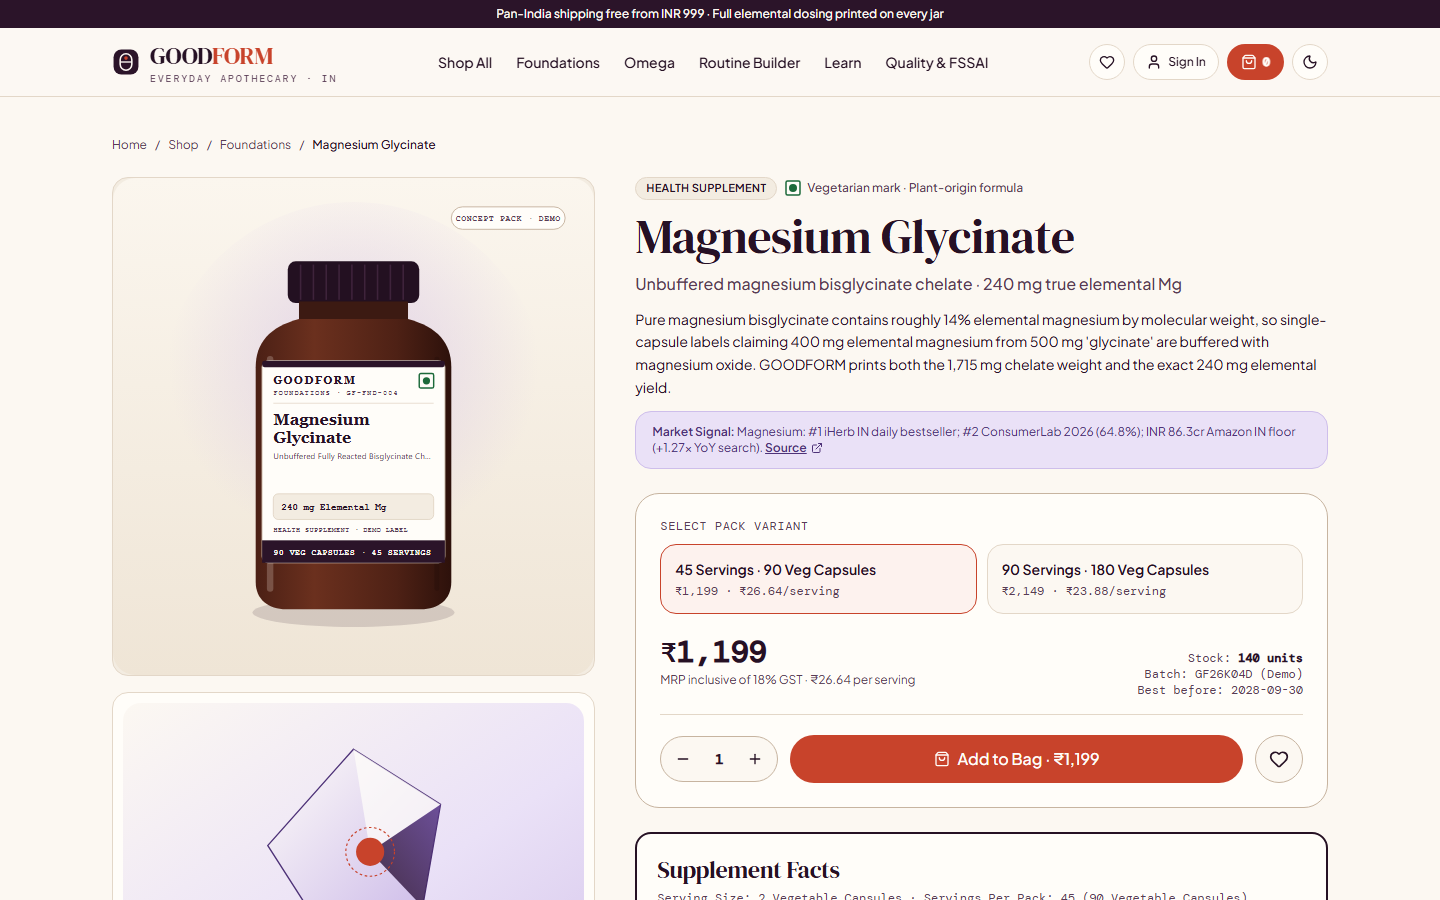
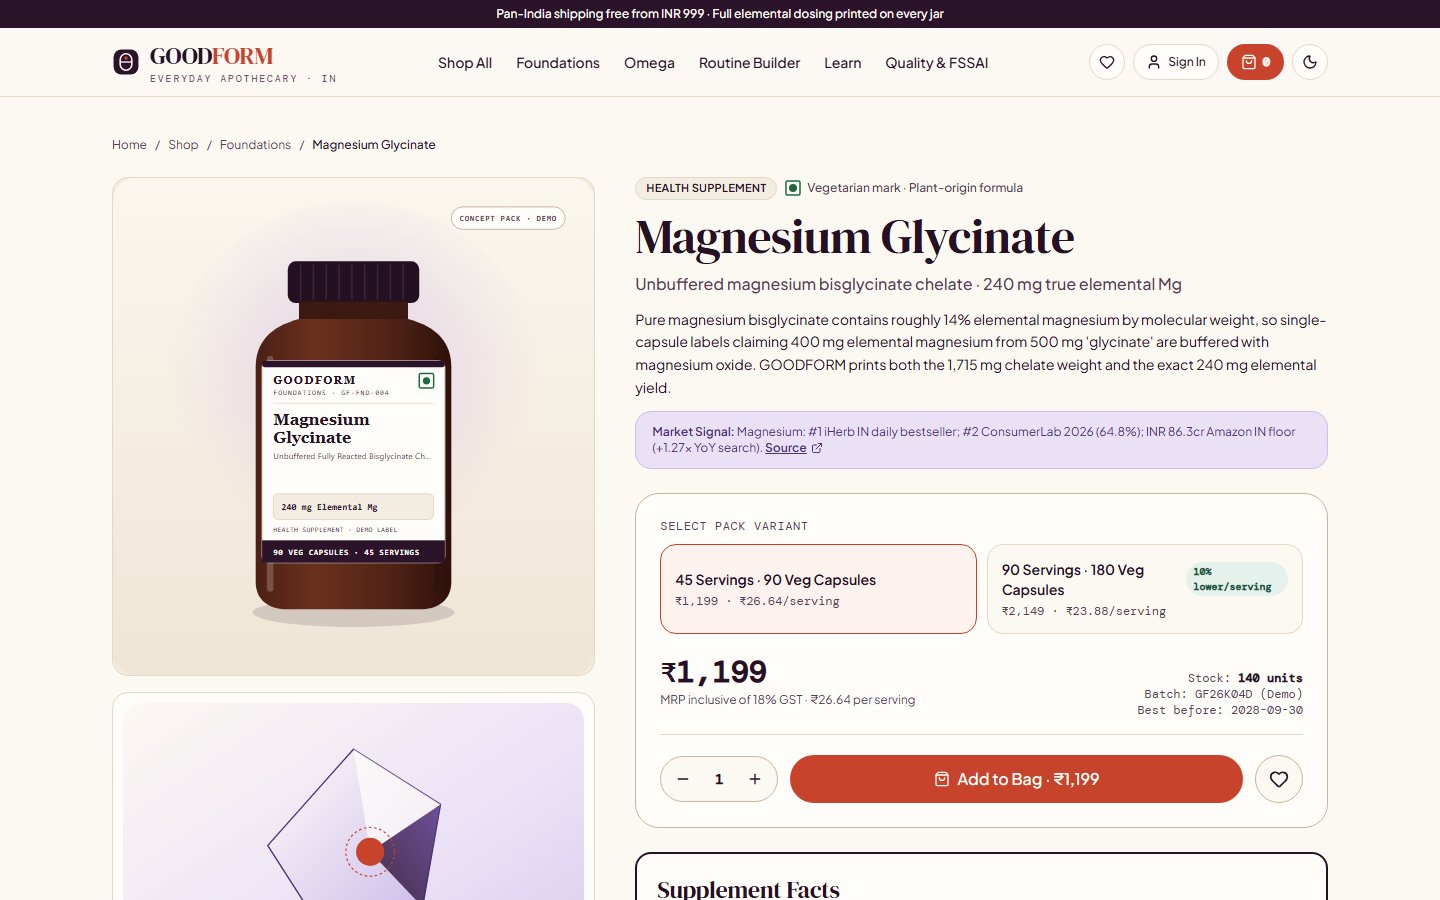
docs(readme): refine link labels, document Phase A+B upgrades, and update live screenshots

diff --git a/README.md b/README.md
@@ -25,12 +25,12 @@
 
 ## Key Capabilities
 
-- **40 Seeded Formulations + India FSSAI Publishing Gate:** All 40 requested SKUs live in PostgreSQL. A server-side gate publishes 32 compliant Health Supplement, Nutraceutical, Probiotic, Prebiotic, and FSDU items while automatically withholding 8 SKUs (**Shilajit**, **NAC**, **Ashwagandha Root Extract**, **Milk Thistle Extract**, **Curcumin + Piperine**, **Magnesium L-Threonate**, **L-Theanine**, and **Greens & Superfoods Blend**) from public listing and purchase pending India-specific legal, CDSCO/AYUSH, Schedule IV botanical, or Non-Specified Food clearance.
-- **Elemental Stoichiometry & Honest Signals:** Mineral labels print both compound salt weight and true elemental milligrams (for example 1,715 mg unbuffered magnesium bisglycinate = 240 mg elemental Mg). Zero fake reviews, star ratings, or urgency timers; category context badges cite primary research (`impuls8`, `ConsumerLab`, `Loop Health WHI`, `iHerb India`).
-- **Non-Diagnostic Routine Builder:** Filters by dietary origin (`Vegan` / `Vegetarian` / `Omnivore`) and format, aggregates elemental nutrients across 18 overlap keys, flags ICMR-NIN daily reference overlaps (such as stacking Vitamin D3, Zinc, or Biotin), and supports 1-click bag add, account saving, and shareable URLs.
-- **Full-Stack INR Commerce:** Guest-to-account transactional cart merge, wishlists, `PERCENT` and `FIXED_PAISE` coupons (`WELCOME10`, `ROUTINE250`), integer-paise arithmetic, 6-digit Indian PIN & state validation, Maharashtra `CGST + SGST` vs inter-state `IGST` breakdown, atomic conditional stock updates (`WHERE stock_on_hand - stock_reserved >= qty`), idempotent order creation, self-serve returns, and 1-click reorder.
-- **Payment & Email Adapters:** Official `razorpay` and `stripe` SDK adapters with constant-time HMAC signature verification and replay-idempotent `payment_webhook_events`, honest `DEMO_NON_CHARGING` fallback when keys are absent, plus an `email_outbox` sink and consent-gated newsletter with 1-click token unsubscribe.
-- **Protected `/admin` Console:** Server-enforced RBAC (`CUSTOMER`, `MERCHANDISER`, `COMPLIANCE_OFFICER`, `ADMIN`) with immutable `audit_logs` across all 40 SKUs, variant batches/expiries, FSSAI compliance states, coupons, orders, returns, and shipping settings. Demo accounts (`@goodform.demo`) are strictly disabled when `APP_ENV=production`.
+- **40 Seeded Formulations + India FSSAI Publishing Gate + Batch Verifier:** All 40 requested SKUs live in PostgreSQL. A server-side gate publishes 32 compliant Health Supplement, Nutraceutical, Probiotic, Prebiotic, and FSDU items while automatically withholding 8 SKUs (**Shilajit**, **NAC**, **Ashwagandha Root Extract**, **Milk Thistle Extract**, **Curcumin + Piperine**, **Magnesium L-Threonate**, **L-Theanine**, and **Greens & Superfoods Blend**). Visitors can inspect any SKU or batch code (such as `GF26K04D` or `GF-ACT-027`) in the interactive `/quality` verifier.
+- **Elemental Stoichiometry, Per-Serving Economics & Honest Signals:** Mineral labels print both compound salt weight and true elemental milligrams (for example 1,715 mg unbuffered magnesium bisglycinate = 240 mg elemental Mg), alongside per-serving INR pricing and honest refill-pack savings. Zero fake reviews, star ratings, or urgency timers; category context badges cite primary research (`impuls8`, `ConsumerLab`, `Loop Health WHI`, `iHerb India`).
+- **Non-Diagnostic Routine Builder:** Filters by dietary origin (`Vegan` / `Vegetarian` / `Omnivore`) and format, aggregates elemental nutrients across 18 overlap keys, flags ICMR-NIN daily reference overlaps (such as stacking Vitamin D3, Zinc, or Biotin), and supports 1-click bag add, account saving/deletion, and shareable URLs.
+- **Full-Stack INR Commerce & Privacy-Safe Order Tracking:** Guest-to-account transactional cart merge, synced wishlists, `PERCENT` and `FIXED_PAISE` coupons (`WELCOME10`, `ROUTINE250`), integer-paise arithmetic, 6-digit Indian PIN & state validation, Maharashtra `CGST + SGST` vs inter-state `IGST` breakdown, atomic conditional stock updates (`WHERE stock_on_hand - stock_reserved >= qty`), idempotent order creation, guest order tracking (`/orders/track` requiring matching order number + receipt email), self-serve returns, and 1-click reorder.
+- **Payment & Email Adapters:** Official `razorpay` (`checkout.js` modal + server callback) and `stripe` SDK adapters with constant-time HMAC signature verification and replay-idempotent `payment_webhook_events`, honest `DEMO_NON_CHARGING` fallback when keys are absent, plus an `email_outbox` sink and consent-gated newsletter with 1-click token unsubscribe.
+- **Protected `/admin` Console & Content CMS:** Server-enforced RBAC (`CUSTOMER`, `MERCHANDISER`, `COMPLIANCE_OFFICER`, `ADMIN`) with immutable `audit_logs` across all 40 SKUs, variant batches/expiries, FSSAI compliance states, coupons, orders, returns, FAQ/Learn monograph CMS (claim-validated), and separated paid-vs-demo AOV reports. Demo accounts (`@goodform.demo`) are strictly disabled when `APP_ENV=production`.
 
 ## Tech Stack
 
@@ -77,13 +77,13 @@ npm run smoke              # Live production health, headers, sitemap & route pr
 
 ## Documentation
 
-- Product & IA: [`docs/PRODUCT.md`](./docs/PRODUCT.md)
-- System Architecture: [`docs/ARCHITECTURE.md`](./docs/ARCHITECTURE.md)
-- Market Signals & Methodology: [`docs/RESEARCH.md`](./docs/RESEARCH.md)
-- India FSSAI & Claims Compliance: [`docs/COMPLIANCE.md`](./docs/COMPLIANCE.md)
-- Deployment Runbook: [`docs/DEPLOYMENT.md`](./docs/DEPLOYMENT.md)
-- Testing Guide: [`docs/TESTING.md`](./docs/TESTING.md)
-- Threat Model & Security Policy: [`SECURITY.md`](./SECURITY.md)
+- [Product & Information Architecture](docs/PRODUCT.md)
+- [System & Database Architecture](docs/ARCHITECTURE.md)
+- [Market Signals & Methodology](docs/RESEARCH.md)
+- [India FSSAI & Claims Governance](docs/COMPLIANCE.md)
+- [Deployment & Operations Runbook](docs/DEPLOYMENT.md)
+- [Testing & QA Suite](docs/TESTING.md)
+- [Security Policy & Threat Model](SECURITY.md)
 
 ## Demo & Compliance Limits
 
